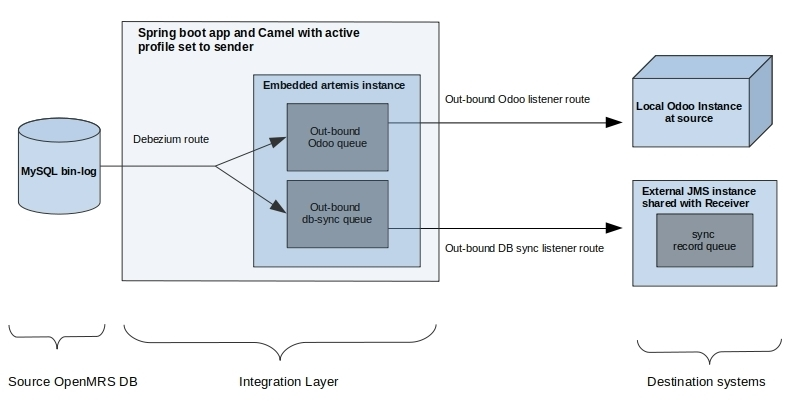
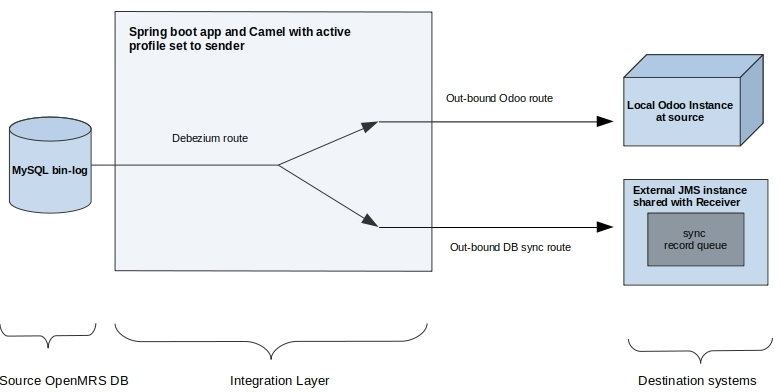
Updated architecture diagrams and readme file

diff --git a/README.md b/README.md
@@ -43,16 +43,14 @@ MySQL binary log is ONLY preconfigured for the remote instance because it assume
 When the application is fired up in sender mode, the debezium route starts the debezium component which will periodically 
 read entries in the MySQL binary log of the remote OpenMRS instance, it constructs a DbEvent instance which has 3 fields,
 the source table name, the uuid of the affected row and the operation(c, u, d) for Create, Update or Delete respectively.
-The debezium route pushes the db event into an embedded active artemis(activeMQ) instance to all configured message 
-queues, by default the application has 2 out-bound queues, one for the out-bound DB sync route and the other for the 
-local Odoo system. In theory, you can register as many queues as the systems that need to be notified of changes from 
-the OpenMRS DB, the sender's application.properties file has a property named **db-event.destinations** which takes 
-a comma separated list of queue names to which the db event will be published, and you would have to add a consumer 
-for each registered queue to feed another system. The out-bound DB sync listener route consumes each message from its queue, 
-loads the entity by its uuid, serialize it into a custom format and then publishes the payload into a sync record 
-message queue in another external message broker that is known to the team administering the receiving sync application. 
-The out-bound Odoo listener route consumes messages from its queue too, does its custom processing and then feeds the 
-configured Odoo system.
+The debezium route notifies all configured routes in parallel of the DB event message set as the body. By default, the 
+application has 2 out-bound routes, one for the out-bound DB sync route and the other for the local Odoo system. In 
+theory, you can register as many routes as the systems that need to be notified of changes from the OpenMRS DB, the 
+sender's application.properties file has a property named **db-event.destinations** which takes a comma separated list 
+of route ids to which the db event will be sent. The out-bound DB sync route transforms each message by loading the 
+entity by its uuid, serialize it into a custom format and then publishes the payload into a sync record message queue 
+in an external message broker that is known to the team administering the receiving sync application. The out-bound Odoo 
+route consumes messages from its queue too, does its custom processing and then feeds the configured Odoo system.
     
 ### Receiver
 
@@ -64,13 +62,12 @@ running at another physical location with an OpenMRS installation with the activ
 Recall from the sender documentation above, that the out-bound DB sync listener route ends by publishing the payload of 
 the entity to be synced into a message broker known to the team administering the receiving sync application, this is 
 where the receiver starts, its main receiver route connects to this external message broker MOST likely over the internet 
-and consumes messages out of sync record queue and pushes the payload into the embedded artemis(activeMQ) instance to 
-all configured message queues, by default the application has 2 in-bound queues, one for the in-bound DB sync route and 
-the other for a local Odoo system. You can register as many queues as the systems that need to be notified of 
-the in-bound entity payload, the sender's application.properties file has a property named **entity-payload.destinations** 
-which takes a comma separated list of queue names to which the entity payload will be published, and you would have to 
-add a consumer for each registered queue to feed another system. The in-bound DB sync listener route consumes each message 
-from its queue and syncs it into the destination OpenMRS instance's MySQL DB. The in-bound Odoo listener route consumes 
+, consumes messages out of sync record queue and calls all configured routes in parallel with the DB event message set 
+as the body. By default, the application has 2 in-bound routes, one for the in-bound DB sync route and the other for a 
+local Odoo system. You can register as many routes as the systems that need to be notified of the in-bound entity payload, 
+the sender's application.properties file has a property named **entity-payload.destinations** which takes a comma separated 
+list of route ids to which the entity payload will be sent to feed another system. The in-bound DB sync route consumes 
+each message from its queue and syncs it into the destination OpenMRS instance's MySQL DB. The in-bound Odoo route consumes 
 messages from its queue too, does its custom processing and then feeds the configured Odoo system.
 
 **NOTE:** In this default setup since it's a one-way sync, MySQL bin-log isn't turned on for the destination MySQL DB, 

diff --git a/distribution/springboot_setup/README.md b/distribution/springboot_setup/README.md
@@ -105,7 +105,7 @@ spring.activemq.user=write
 spring.activemq.password=password
 ```
 
-Uncomment the following lines in **eceiver-application.properties** file
+Uncomment the following lines in **receiver-application.properties** file
 ```
 spring.activemq.broker-url=failover:(tcp://localhost:63616,tcp://localhost:64616)
 spring.activemq.user=read
